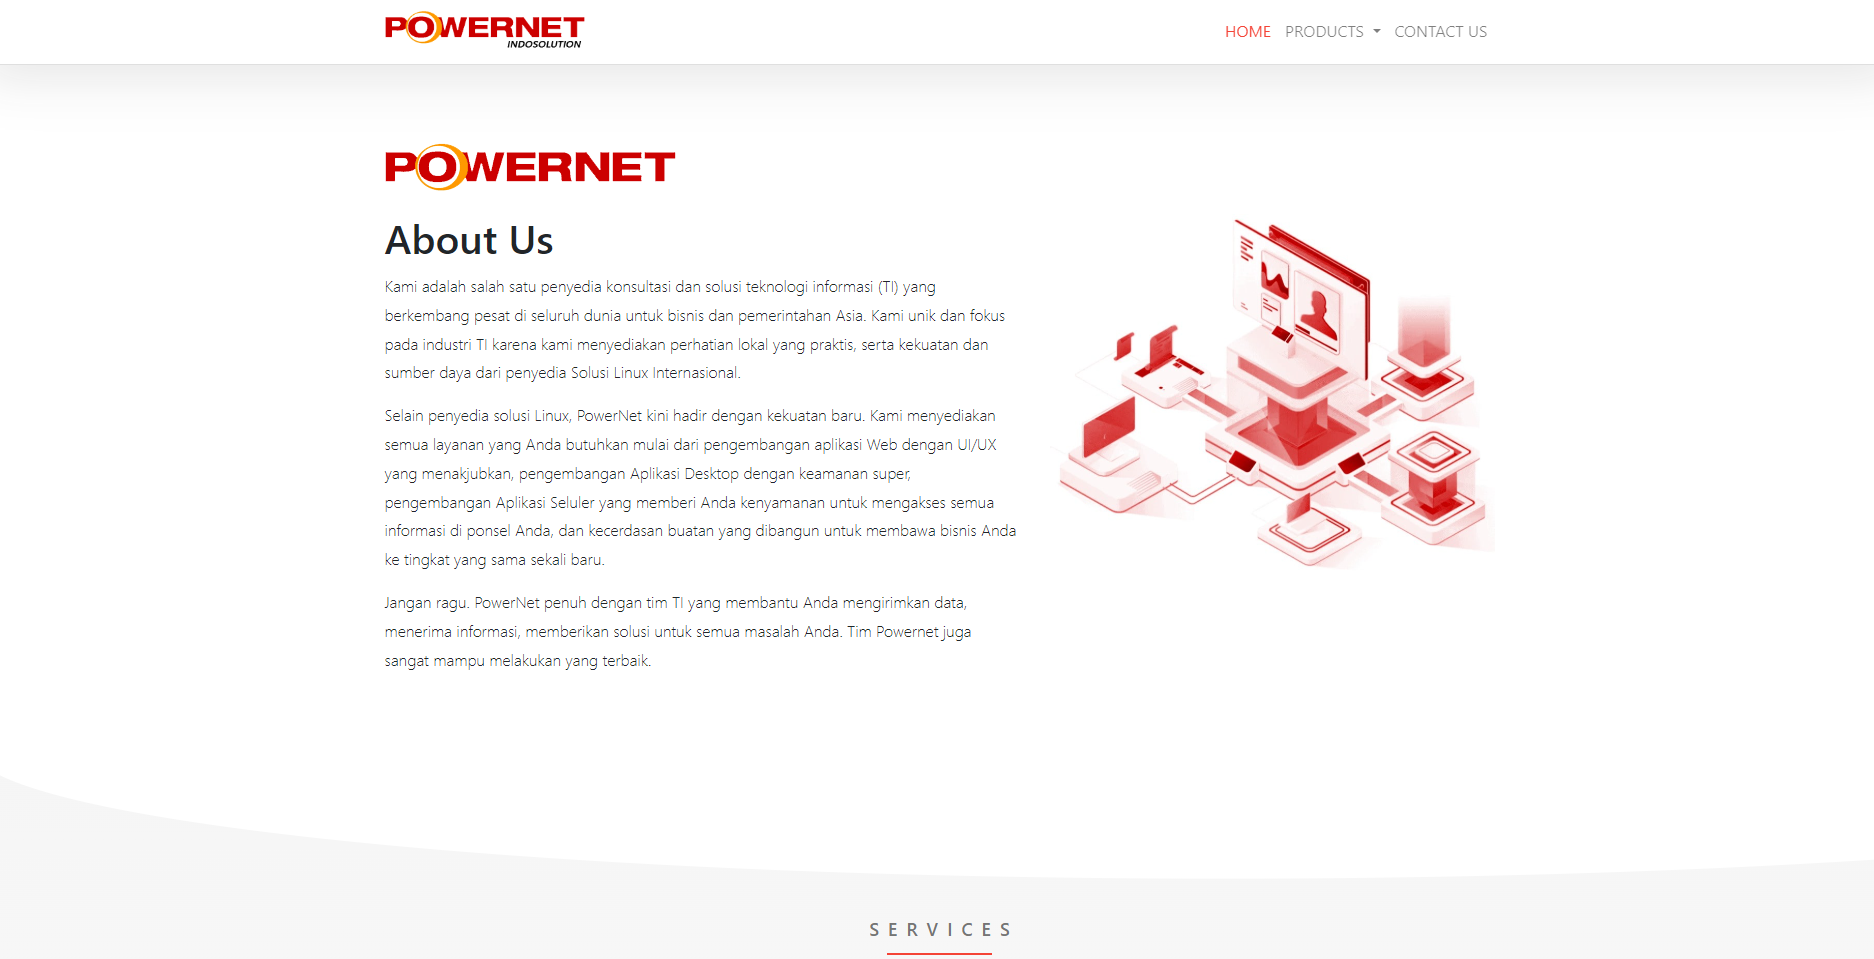
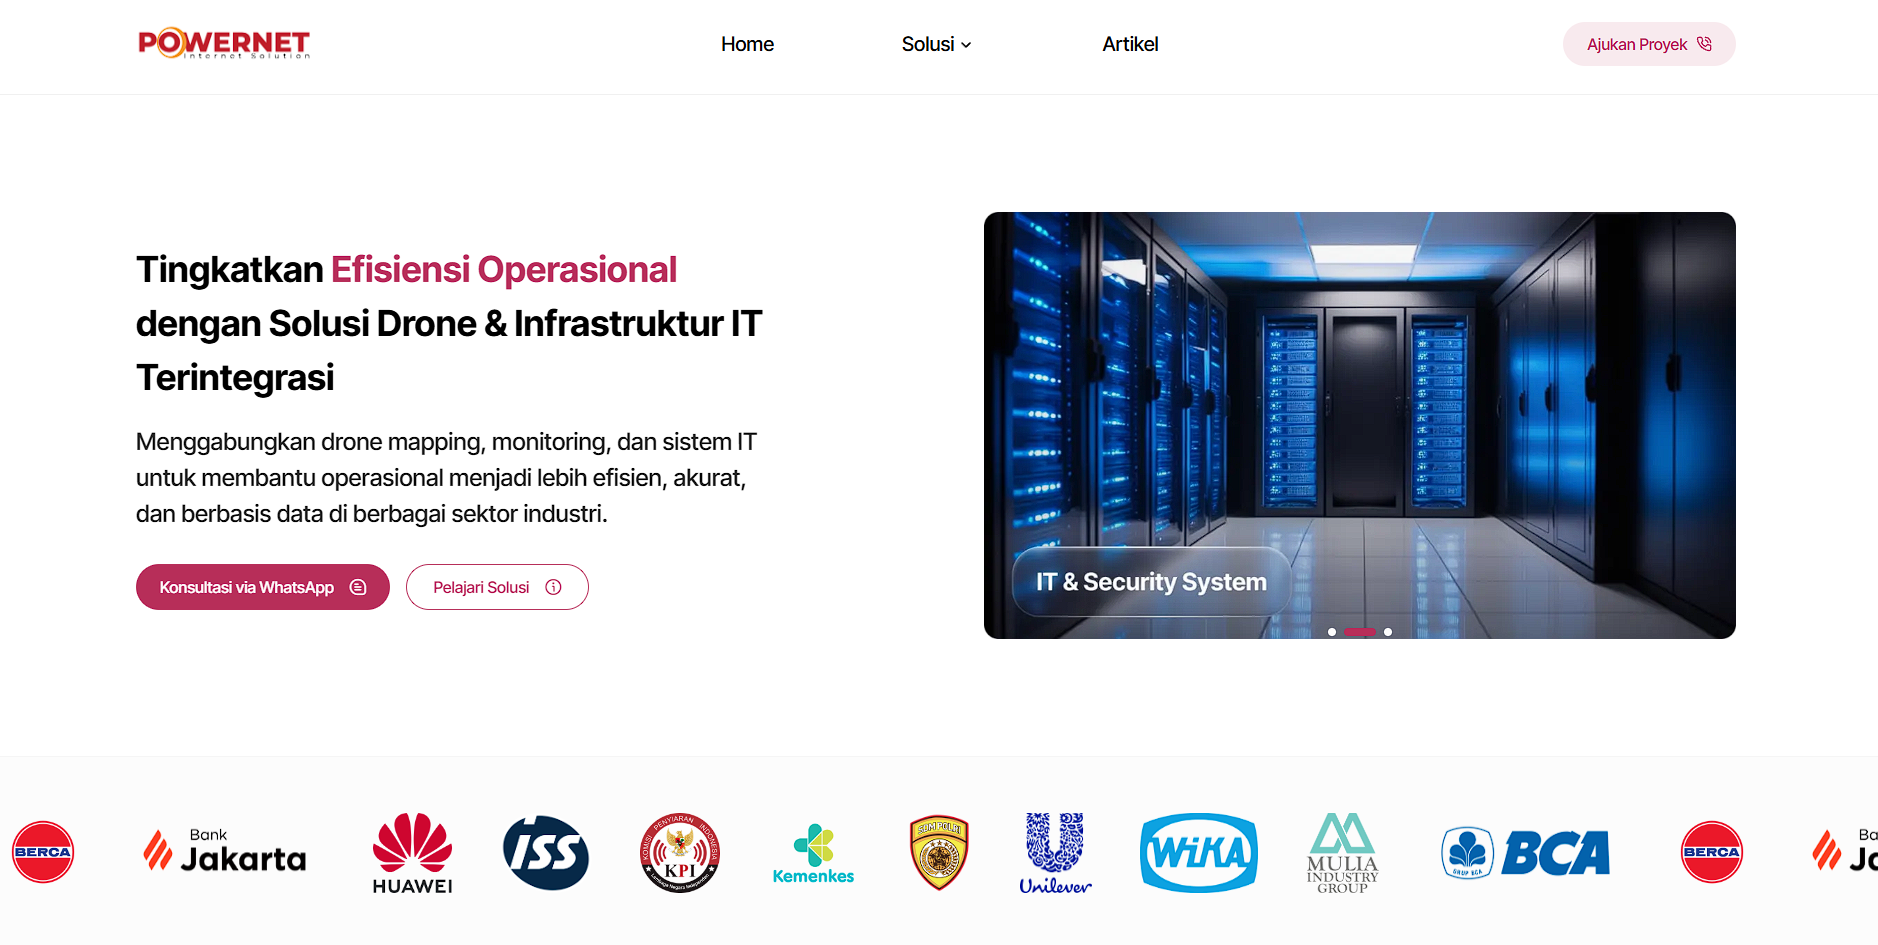
Update PortfolioView.vue with new portfolio items and images

diff --git a/src/views/PortfolioView.vue b/src/views/PortfolioView.vue
@@ -6,16 +6,25 @@ export default {
       items: [
         {
           id: 1,
+          name: 'Personal Photographer Website',
+          imageUrl: 'Firman',
+          status: 'A modernized client portfolio website, built with the latest web technologies with a focus on user experience and performance.',
+          tech: 'React 18, Vite 7, Nodejs 22, Tailwind 3',
+          github: 'https://github.com/ahad200/V2_Mangap7.com',
+          demo: 'https://mangap7.com/'
+        },
+        {
+          id: 2,
           name: 'Modernized Company Profile',
-          imageUrl: 'Powernet',
+          imageUrl: 'powernet',
           status: 'Redesigned, modernized and built PT.Powenet company profile, Implemented APIs based and interactive design elements to enhance user experience ',
           tech: 'NextJs, Laravel 9',
           github: 'https://github.com/ahad200/Project_PT_Powernet',
           demo: 'https://powernet.co.id/'
         },
                 {
-          id: 1,
-          name: 'My Portfolio',
+          id: 3,
+          name: 'Personal Portfolio',
           imageUrl: 'portku',
           status: 'My new modernized personal website, I created this website to display my profile, skills and projects. base on new technology and design trends of modern portfolios.',
           tech: 'VueJS 3, Tailwind',
@@ -23,7 +32,7 @@ export default {
           demo: 'https://ahadiyas.netlify.app'
         },
         {
-          id: 2,
+          id: 4,
           name: 'Yokohama Rent',
           imageUrl: 'Picture4',
           status: 'A web application to help customers rent cars, make payments in real time, and detect the location of rented cars, etc',
@@ -32,7 +41,7 @@ export default {
           demo: 'null'
         },
         {
-          id: 3,
+          id: 5,
           name: 'SISTEKDES',
           imageUrl: 'sistekdes',
           status: 'Sistem Informasi dan Teknologi Desa, a web application to assist village government work in administration, population data management, community services, etc.',
@@ -41,7 +50,7 @@ export default {
           demo: 'null'
         },
         {
-          id: 4,
+          id: 6,
           name: 'Bumdesma',
           imageUrl: 'bumdesma',
           status: 'a web application used by village-owned enterprises at the sub-district level to make it easier for them in terms of accounting that is equipped with a microfinance balance.',
@@ -50,7 +59,7 @@ export default {
           demo: 'null'
         },
         {
-          id: 5,
+          id: 7,
           name: 'SP2SE',
           imageUrl: 'sp2se',
           status: 'Sistem Percepatan Pelayanan Surat Elektronik, A web application to manage letters in the village.',
